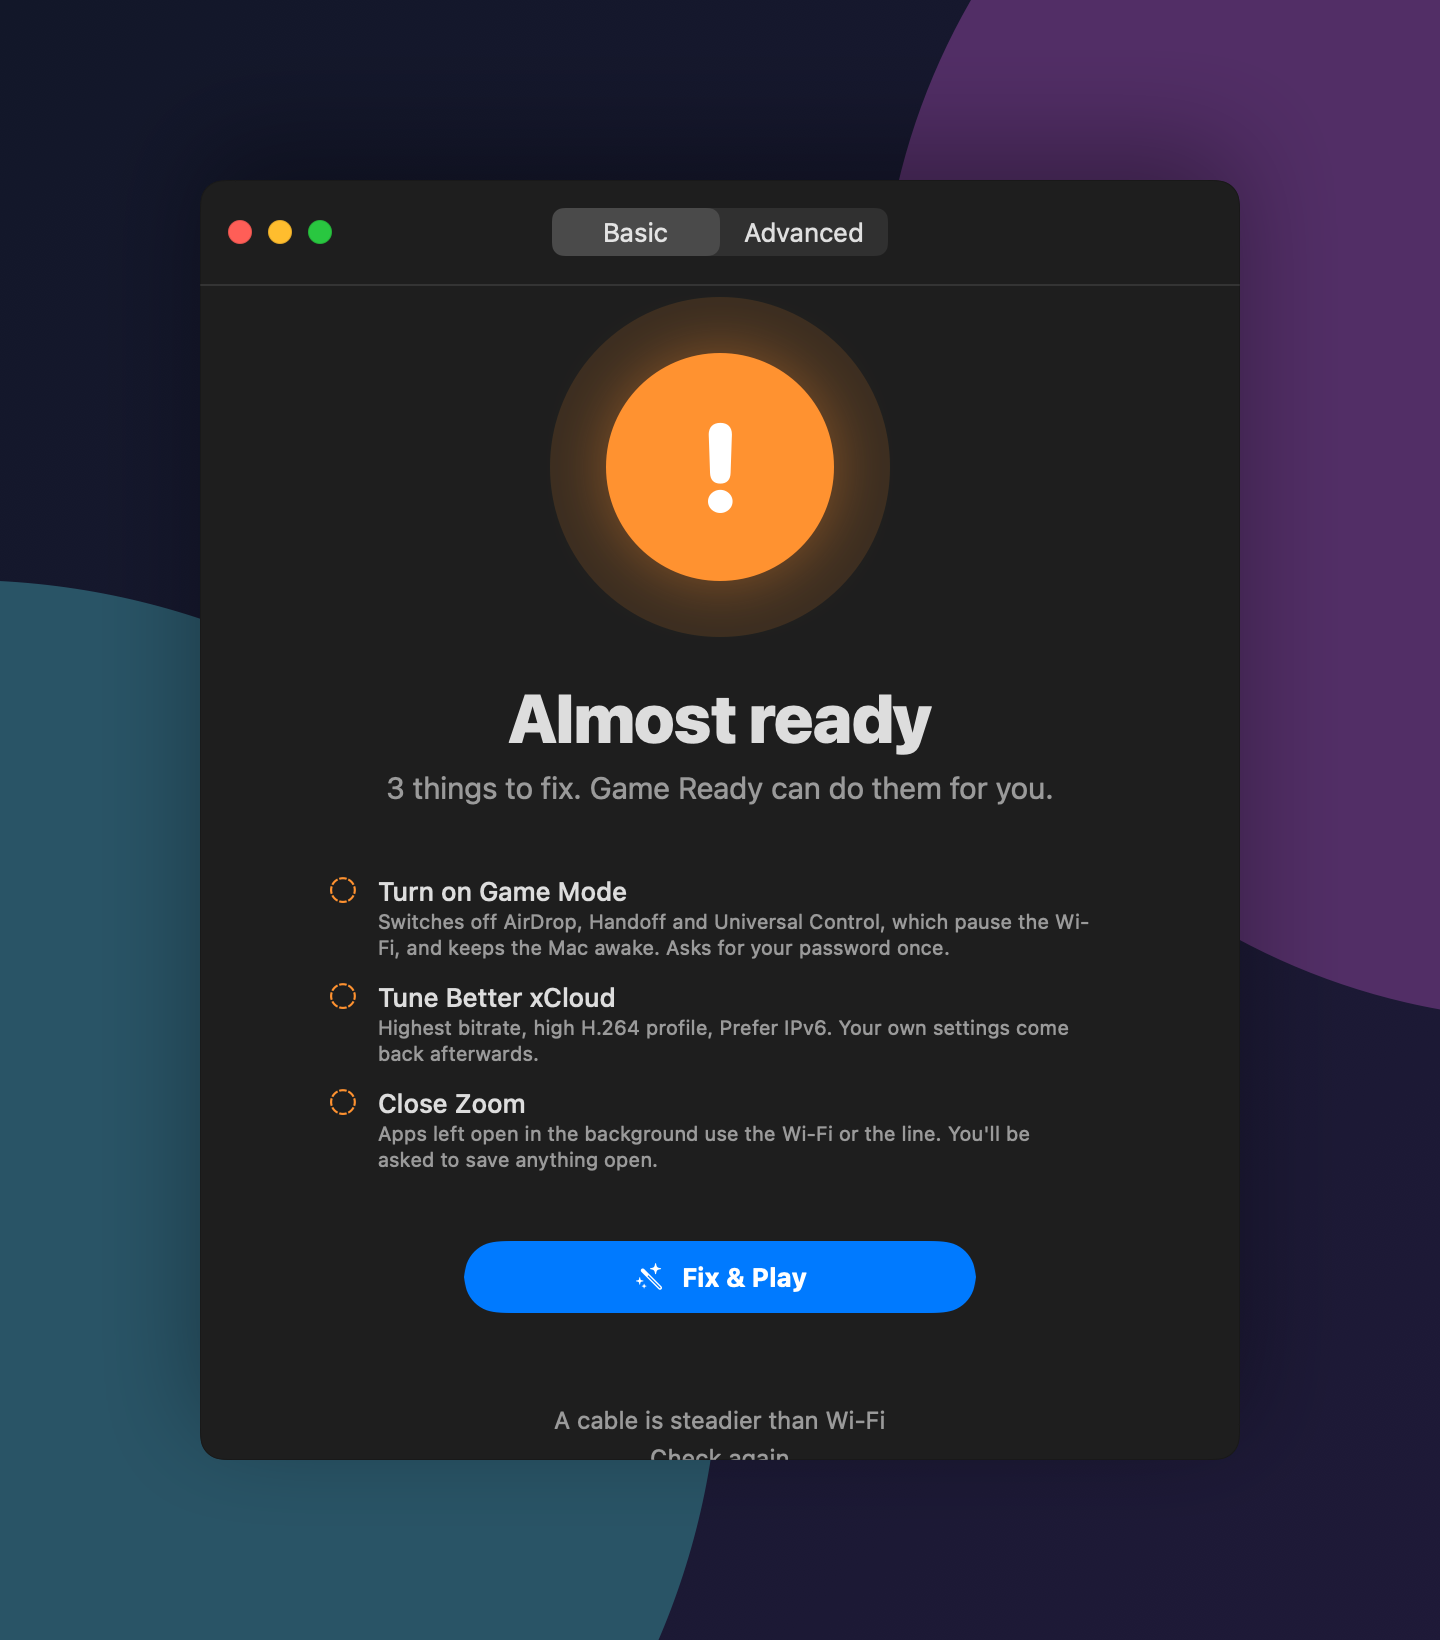
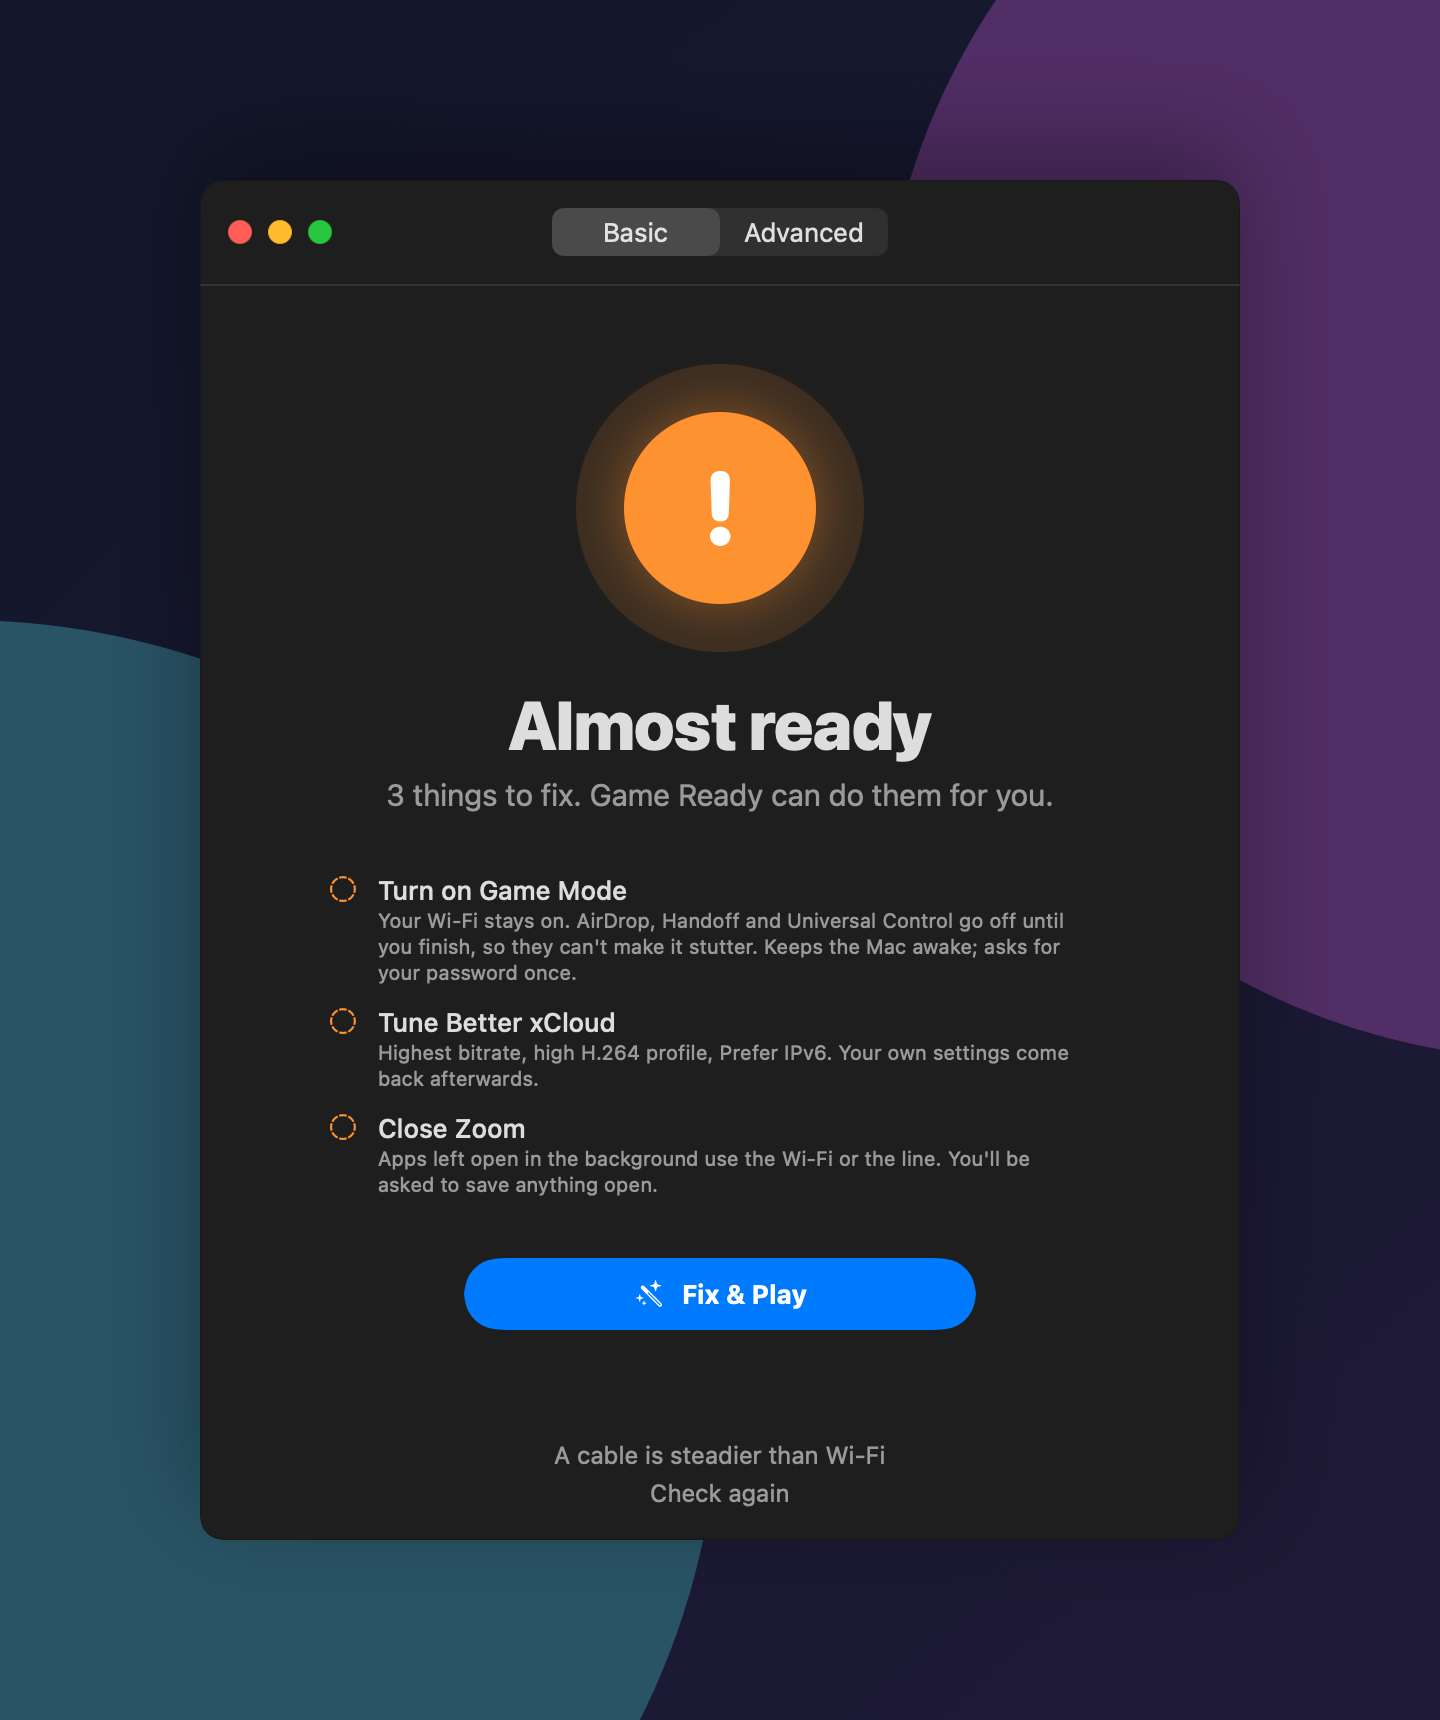
fix(ui): Game Mode says the Wi-Fi stays on; Basic fits its window

diff --git a/App/Sources/UI/BasicView.swift b/App/Sources/UI/BasicView.swift
@@ -10,8 +10,8 @@ struct BasicView: View {
     var body: some View {
         // Scrolls when large text or a long translation doesn't fit the window.
         ScrollView {
-        VStack(spacing: 20) {
-            Spacer(minLength: 8)
+        VStack(spacing: 16) {
+            Spacer(minLength: 16)
             StatusOrb(grade: orbGrade, symbol: orbSymbol, busy: model.running)
             VStack(spacing: 6) {
                 Text(title).font(.system(size: 34, weight: .heavy)).tracking(-0.6).multilineTextAlignment(.center)
@@ -209,9 +209,9 @@ struct StatusOrb: View {
     var body: some View {
         let c = color
         ZStack {
-            Circle().fill(c.opacity(0.13)).frame(width: 170, height: 170)
-            Circle().fill(c).frame(width: 114, height: 114).shadow(color: c.opacity(0.4), radius: 16)
-            Image(systemName: symbol).font(.system(size: 48, weight: .black)).foregroundStyle(.white)
+            Circle().fill(c.opacity(0.13)).frame(width: 144, height: 144)
+            Circle().fill(c).frame(width: 96, height: 96).shadow(color: c.opacity(0.4), radius: 14)
+            Image(systemName: symbol).font(.system(size: 40, weight: .black)).foregroundStyle(.white)
                 .symbolEffect(.pulse, isActive: busy && !reduceMotion)
         }
         .accessibilityHidden(true)

diff --git a/App/Sources/UI/Screenshots.swift b/App/Sources/UI/Screenshots.swift
@@ -7,7 +7,7 @@ import SwiftUI
 enum Screenshots {
     static func render(to dir: URL) {
         try? FileManager.default.createDirectory(at: dir, withIntermediateDirectories: true)
-        let basicSize = CGSize(width: 520, height: 640), advSize = CGSize(width: 900, height: 640)
+        let basicSize = CGSize(width: 520, height: 680), advSize = CGSize(width: 900, height: 640)
         for (name, dark) in [("light", false), ("dark", true)] {
             // Basic, before Fix & Play: Game Mode off, so there are fixes to make.
             let before = AppModel(demo: true); before.loadDemo(gameModeOn: false)

diff --git a/App/Sources/GameReadyApp.swift b/App/Sources/GameReadyApp.swift
@@ -16,7 +16,7 @@ struct GameReadyApp: App {
         }
         .windowResizability(.contentMinSize)
         .windowToolbarStyle(.unified(showsTitle: false))
-        .defaultSize(width: 520, height: 640)
+        .defaultSize(width: 520, height: 680)
 
         Settings {
             SettingsView().environment(model)

diff --git a/CHANGELOG.md b/CHANGELOG.md
@@ -7,6 +7,8 @@ All notable changes to this project are documented here. Format: [Keep a Changel
 ### Fixed
 - While a check ran, Basic still showed a greyed-out "Check now" (or "Fix & Play"); the button
   now stays hidden until the check finishes. Advanced's button reads "Checking…".
+- "Turn on Game Mode" read as if it switched the Wi-Fi off. It now says the Wi-Fi stays on and
+  only AirDrop, Handoff and Universal Control go off. Basic's window is a little taller so it fits.
 
 ## [0.3.0] - 2026-10-02
 
